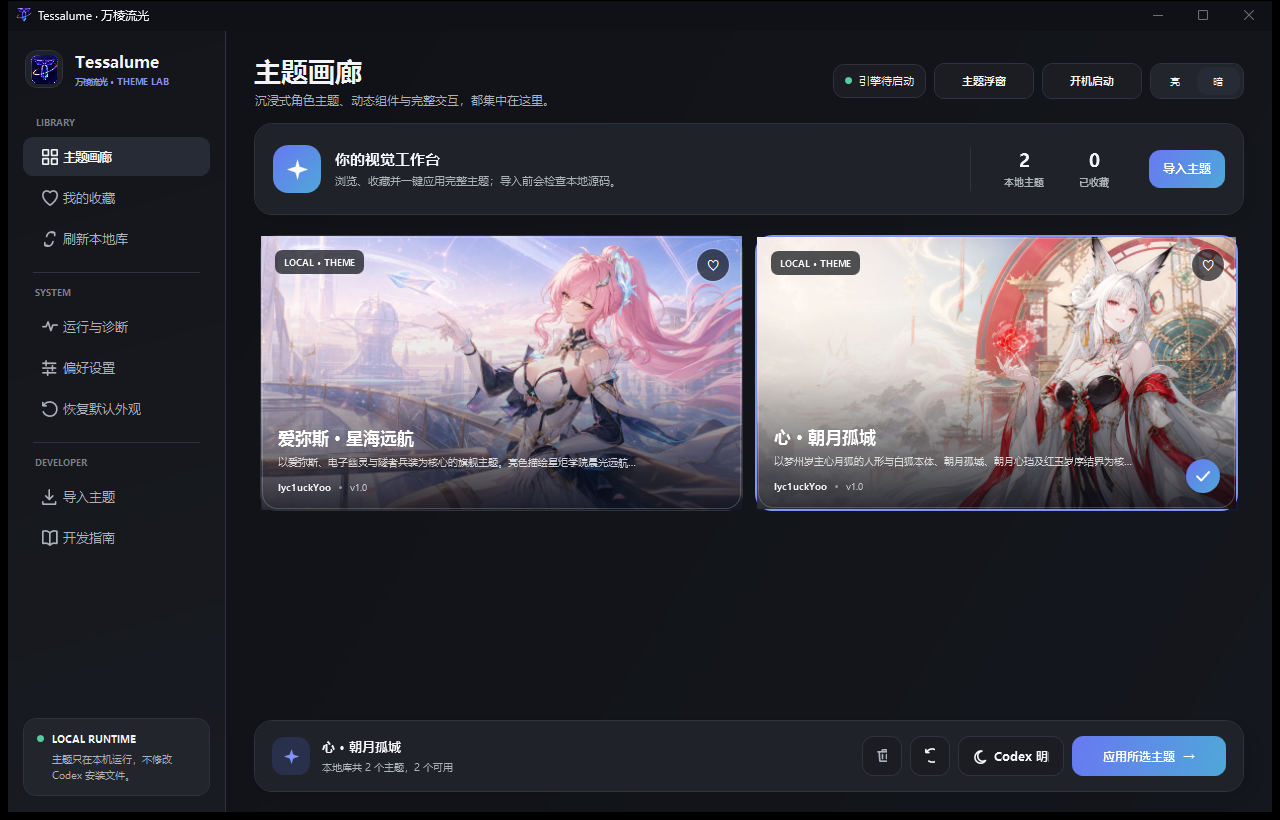
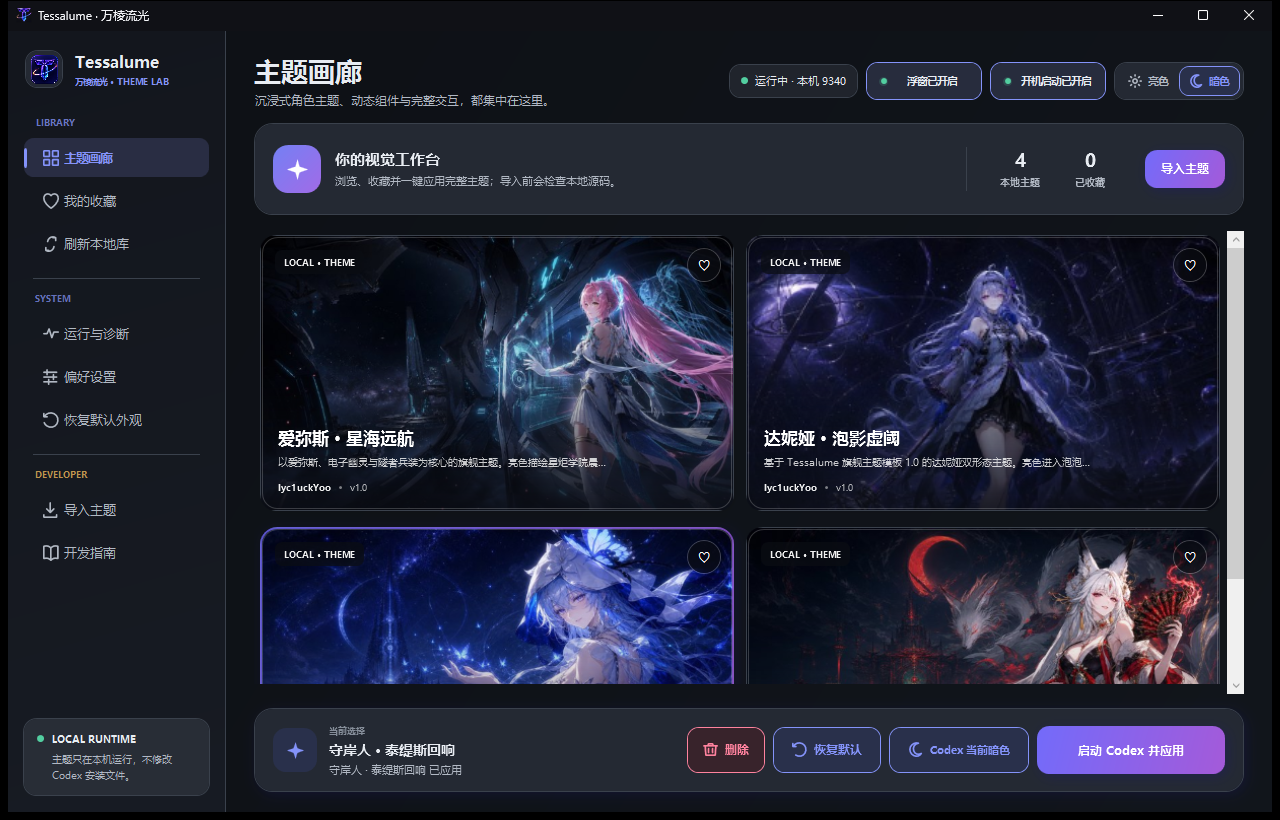
Prepare Tessalume 1.0 release

diff --git a/README.md b/README.md
@@ -1,77 +1,131 @@
 # Tessalume · 万棱流光
 
-面向 Codex Desktop 的开源 Windows 主题工作室。Tessalume 用一个纯本地画廊管理、预览和切换完整沉浸式主题，不修改 Codex 安装包。
+面向 Codex Desktop 的开源 Windows 主题工作室。Tessalume 把完整沉浸式主题、亮暗模式、收藏切换、额度信息和本机诊断集中在一个便携应用中；它通过本机回环端口连接 Codex，不修改 Codex 安装包、`app.asar` 或用户数据。
+
+[下载 Tessalume 1.0](https://github.com/lyc1uckYoo/tessalume/releases/latest) · [主题制作指南](THEMING.md) · [旗舰主题模板 1.0](examples/README.md)
 
 <picture>
   <source media="(prefers-color-scheme: dark)" srcset="docs/screenshots/tessalume-dark.png">
   <source media="(prefers-color-scheme: light)" srcset="docs/screenshots/tessalume-light.png">
-  <img alt="Tessalume 主题画廊" src="docs/screenshots/tessalume-light.png">
+  <img alt="Tessalume 1.0 主题画廊，展示四套内置主题" src="docs/screenshots/tessalume-light.png">
 </picture>
 
-## 为什么是 Tessalume
+## Tessalume 1.0 能做什么
 
-- **完整主题，而非换色皮肤**：主题可以同时提供角色视觉、聊天背景、组件样式、动画与交互逻辑。
-- **真正的本地工作流**：主题、收藏、信任记录和偏好设置都保存在程序旁边，不提供账号、云同步、主题商店或远程下载。
-- **安全边界清晰**：只连接 `127.0.0.1` / `::1` 上的 Codex 调试端口；主题按 SHA-256 指纹授权，源码变化后会重新确认。
-- **可恢复、可诊断**：支持恢复 Codex 默认外观、本机端口诊断、主题包校验与单实例续接。
-- **亮暗色一致**：主界面和原生标题栏均适配亮色、暗色，并记忆用户选择。
+- **完整主题画廊**：统一管理角色横幅、聊天背景、消息框、卡片、输入框挂件和专属动效，不只是替换颜色。
+- **四套内置旗舰主题**：所有内置主题均支持亮色和暗色，并遵循同一套 Template 1.0 结构、自适应规则与运行时契约。
+- **收藏与快速切换**：收藏喜欢的主题，在主界面或顶部浮窗中直接切换；恢复默认外观后，也可以一键回到刚才使用的主题。
+- **Codex 明暗模式控制**：Studio 自身和 Codex 的亮暗模式分别控制，浮窗会显示 Codex 当前状态。
+- **本地主题导入**：导入包含 `manifest.json`、`theme.css`、`theme.js` 和本地资源的完整主题包；也可以从软件内释放并复制旗舰模板开始制作。
+- **便携数据与开机启动**：主题、收藏、信任指纹和界面设置都保存在 `Tessalume.exe` 旁边；开机启动只写入当前 Windows 用户，不需要管理员权限。
+- **恢复与诊断**：随时移除已注入的主题并恢复 Codex 默认外观；诊断页会检查 Codex 进程、本机端口、主题包和当前运行状态。
+- **单实例续接**：重复运行 `Tessalume.exe` 不会创建第二套后台状态，而是唤起已经运行的主界面。
 
-## 主题浮窗
+## 顶部主题浮窗
 
-浮窗提供收藏主题切换、默认外观恢复、Codex 明暗色切换，以及独立的 **5 小时额度** 与 **长周期额度** 圆环。若某个额度暂时未返回，会显示 `--`，恢复后自动出现。
+Tessalume 默认以顶部浮窗开始工作。浮窗常驻屏幕上方，不遮挡 Codex 的主要内容，提供：
 
-![Tessalume 主题浮窗](docs/screenshots/tessalume-quick-switch.png)
+- Codex **5 小时额度**与**长周期额度**剩余比例，信息可用时每分钟刷新；
+- 上一个、下一个主题切换：有收藏时仅在收藏主题间切换，没有收藏时使用全部有效主题；
+- 当前主题和运行状态；
+- 恢复 Codex 默认外观，或重新应用刚才使用的主题；
+- Codex 亮色/暗色切换；
+- 打开 Tessalume 主界面与关闭浮窗。
 
-## 使用
+![Tessalume 1.0 顶部主题浮窗](docs/screenshots/tessalume-quick-switch.png)
 
-发布版可直接运行 `Tessalume.exe`。它是包含 .NET 运行时的自包含单文件程序，不需要另行安装运行环境。
+如果 Codex 暂时没有返回某个额度，圆环会显示 `--`，不会阻塞主题切换。点击浮窗中的主页按钮，或再次运行 `Tessalume.exe`，即可打开完整主题画廊。
 
-首次启动时，程序会在 EXE 旁创建 `themes`、`Compatibility` 和 `data` 目录，并把内置主题释放到 `themes/<主题目录>`。以后完善的新主题直接放入该目录即可被本地画廊识别，也会自动参与源码构建，不需要维护硬编码名单。
+## 当前内置主题
 
-当前仓库公开三套遵循同一注入契约的主题：
+| 主题 | 包 ID | 亮暗形态与主题特征 |
+|---|---|---|
+| 爱弥斯 · 星海远航 | `aemeath.star-voyage` | 星炬学院晨光 / 隧者核心深空，包含机制同步面板与专属长剑「永远的启明星」 |
+| 达妮娅 · 泡影虚阈 | `danya.bubble-void-duality` | 泡泡剧场伪装形态 / 寂静虚阈真形，保留双形态角色组件与专属动效 |
+| 守岸人 · 泰缇斯回响 | `shorekeeper.tethys-reverie` | 镜海晨曦 / 概率之海，包含潮汐演算、双卡交替与专武「星序协响」 |
+| 心 · 朝月孤城 | `xin.moonfox-sovereign` | 白玉云宫 / 赤月黑城，人形与白狐本体、红玉岁序结界和双角色卡交替动效 |
 
-- `爱弥斯 · 星海远航`
-- `心 · 朝月孤城`
-- `达妮娅 · 泡影虚阈`
+四套主题均为版本 `1.0`，同时支持亮色与暗色。程序根据 Studio 当前模式自动使用对应预览，应用后可以直接在浮窗中切换 Codex 明暗形态。
 
-Tessalume 不会修改 WindowsApps、`app.asar` 或 Codex 用户数据。如果 Codex 需要以调试端口重启，程序会先取得用户确认。
+## 下载与使用
 
-## 构建
+1. 从 [Releases](https://github.com/lyc1uckYoo/tessalume/releases/latest) 下载 `Tessalume.exe`。
+2. 将 EXE 放入一个可写的独立文件夹，不要直接在压缩包或临时下载目录中运行。
+3. 运行 `Tessalume.exe`。程序是包含 .NET 运行时的 Windows x64 自包含单文件，不需要另行安装 .NET。
+4. 首次启动会在程序旁创建并维护以下便携目录：
 
-在 PowerShell 中运行根目录唯一的一键构建脚本：
+   ```text
+   Compatibility/   本机主题运行适配
+   Templates/       旗舰主题模板 1.0
+   data/            收藏、运行状态、设置与主题指纹
+   themes/          内置主题和自行导入的主题
+   ```
+
+5. Tessalume 会优先从收藏主题中随机选择一个启动；收藏为空时从全部有效主题中选择。需要建立本机调试连接时，程序会使用 `127.0.0.1` 上的 `9340–9399` 端口启动或重新启动 Codex。
+6. 在主界面选择主题并点击“启动 Codex 并应用”，之后即可通过浮窗实时切换。
+
+发布页同时提供 `SHA256SUMS.txt`，可用于核对下载的 EXE。Tessalume 1.0 当前面向安装了 Windows 版 Codex Desktop 的 x64 系统。
+
+## 本机运行与安全边界
+
+Tessalume 的主题运行链路保持在本机：
+
+- 只发现和连接 `127.0.0.1` / `::1` 回环端口，不提供账号、云同步、主题商店或远程主题下载；
+- 不修改 WindowsApps、Codex 安装文件、`app.asar` 或 Codex 用户数据；
+- 导入时校验清单、入口文件、资源路径、扩展名与大小，拒绝路径越界和 CSS 远程资源；
+- 高级主题按完整包内容计算 SHA-256 指纹，并在便携数据目录中记录当前加载版本；
+- 删除主题只作用于 Tessalume 自己的本地主题库；删除正在使用的主题前会先恢复 Codex 默认外观。
+
+![Tessalume 1.0 本机运行与诊断](docs/screenshots/tessalume-diagnostics.png)
+
+诊断页区分 Codex 进程、本机端口、有效主题数量、当前主题和包校验结果，便于判断问题发生在主题包、Codex 启动还是本机连接阶段。
+
+## 制作与导入主题
+
+从 [旗舰主题模板 1.0](examples/README.md) 开始。模板以 `心 · 朝月孤城` 为冻结几何基准，统一首页横幅、左侧主卡、记忆卡、右侧双卡、同步面板、聊天宽度和输入框挂件位置；主题作者只替换角色图片、文案、配色、纹样、符号和专属动效。
+
+仓库内所有高级主题共用 canonical host：运行时负责路由检测、页面注入、消息与输出面板标记、自适应显隐和清理；主题包只负责自己的视觉与动画。完整包规范、安全限制和生命周期见 [THEMING.md](THEMING.md)，可执行脚手架与校验流程见 [.agents/skills/author-tessalume-theme](.agents/skills/author-tessalume-theme/SKILL.md)。
+
+导入包的最小结构：
+
+```text
+my-character-theme/
+├─ manifest.json
+├─ theme.css
+├─ theme.js
+└─ assets/
+```
+
+## 从源码构建
+
+在 PowerShell 中运行仓库根目录唯一的一键构建脚本：
 
 ```powershell
 powershell -ExecutionPolicy Bypass -File ".\一键构建EXE.ps1"
 ```
 
-脚本会根据 `global.json` 和项目文件自动完成：
+脚本会根据 `global.json` 和项目配置自动完成：
 
 1. 准备匹配的 .NET SDK；
-2. 还原依赖并编译；
-3. 运行全部自动检查；
-4. 增量优化主题图片；
-5. 发布自包含单文件 EXE。
+2. 还原依赖、编译并运行全部自动检查；
+3. 增量优化内置主题图片并生成画廊预览；
+4. 发布 Windows x64 自包含单文件 EXE；
+5. 完整替换 `dist/portable-win-x64`。
 
-默认产物为 `dist/portable-win-x64/Tessalume.exe`。构建只收集 `themes/` 的一级主题目录，以及各主题根清单明确声明的入口、预览和资源；`.sources`、`.references`、`.legacy` 与未声明文件不会进入 EXE。可使用 `-Configuration`、`-Runtime` 和 `-ThemeImageQuality` 覆盖默认参数；品牌名、SDK 版本、程序集名和输出文件名均从项目配置读取，不在脚本中重复写死。
-
-## 制作主题
-
-从 [旗舰主题模板 1.0](examples/README.md) 开始，然后在 Tessalume 画廊中导入。模板直接位于 `examples/` 根目录，不再保留旧的类型子目录；它以已验收的 `心 · 朝月孤城` 为结构基准，冻结首页横幅、左右卡片、状态面板、聊天内容和输入区的尺寸与位置。新主题只替换图片、角色文案、配色、纹样与专属动效，并直接位于 `themes/<主题目录>/`。
-
-仓库内旗舰主题统一使用 canonical host：页面注入、路由状态、聊天消息、输出面板、侧栏标记与清理由运行时复用；主题包只替换资源、文案、颜色、角色元素和专属动效。完整包规范、生命周期与安全限制见 [THEMING.md](THEMING.md)，可执行模板与校验流程见 [.agents/skills/author-tessalume-theme](.agents/skills/author-tessalume-theme/SKILL.md)。
+默认产物为 `dist/portable-win-x64/Tessalume.exe`。构建只收集 `themes/` 的一级主题目录，以及各主题根清单明确声明的入口、预览和资源；设计源文件、历史副本和未声明文件不会进入发布 EXE。
 
 ## 项目结构
 
 ```text
-src/CodexThemeStudio.App       WPF 桌面界面、浮窗与本机运行适配
-src/CodexThemeStudio.Core      主题加载、校验、启动与 CDP 核心
+src/CodexThemeStudio.App       WPF 主界面、顶部浮窗与本机适配
+src/CodexThemeStudio.Core      主题加载、校验、Codex 启动与 CDP 运行时
 tests/                         无外部测试框架的自动检查
-schemas/                       主题包规范
-themes/<主题目录>/             公开主题源码；新增目录会自动参与构建
-examples/                      可直接运行的旗舰主题模板 1.0
-.agents/skills/                可复用主题创作规范、脚手架与契约校验
-docs/screenshots/              仅包含 Tessalume 软件界面的公开截图
-一键构建EXE.ps1               还原、检查、优化与发布入口
+schemas/                       主题包 JSON Schema
+themes/<主题目录>/             四套内置旗舰主题源码
+examples/                      可直接复制的旗舰主题模板 1.0
+.agents/skills/                主题创作规范、脚手架与契约校验
+docs/screenshots/              Tessalume 1.0 实机界面截图
+一键构建EXE.ps1               还原、测试、优化与发布入口
 ```
 
-当前发布流程只生成可直接复制运行的单文件 EXE，不额外生成压缩包。
+Tessalume 1.0 的正式发布产物为 `Tessalume.exe` 与对应的 SHA-256 校验文件，不额外要求安装器或 .NET 运行环境。
